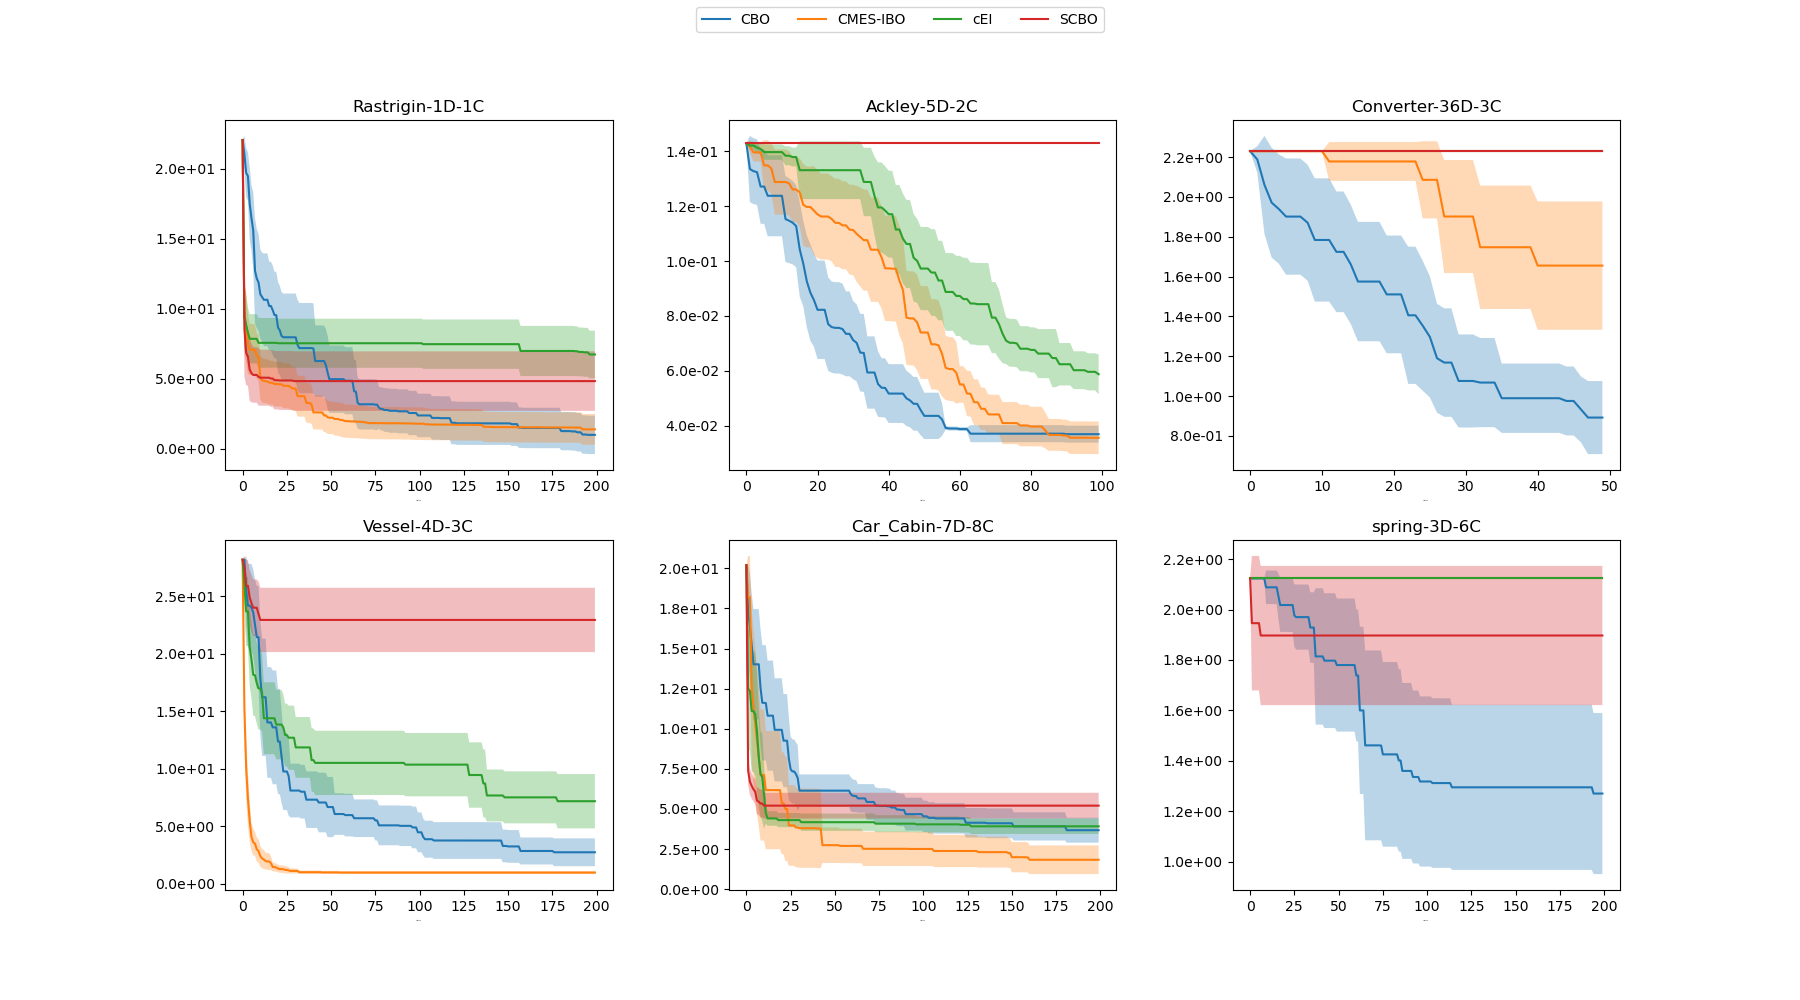
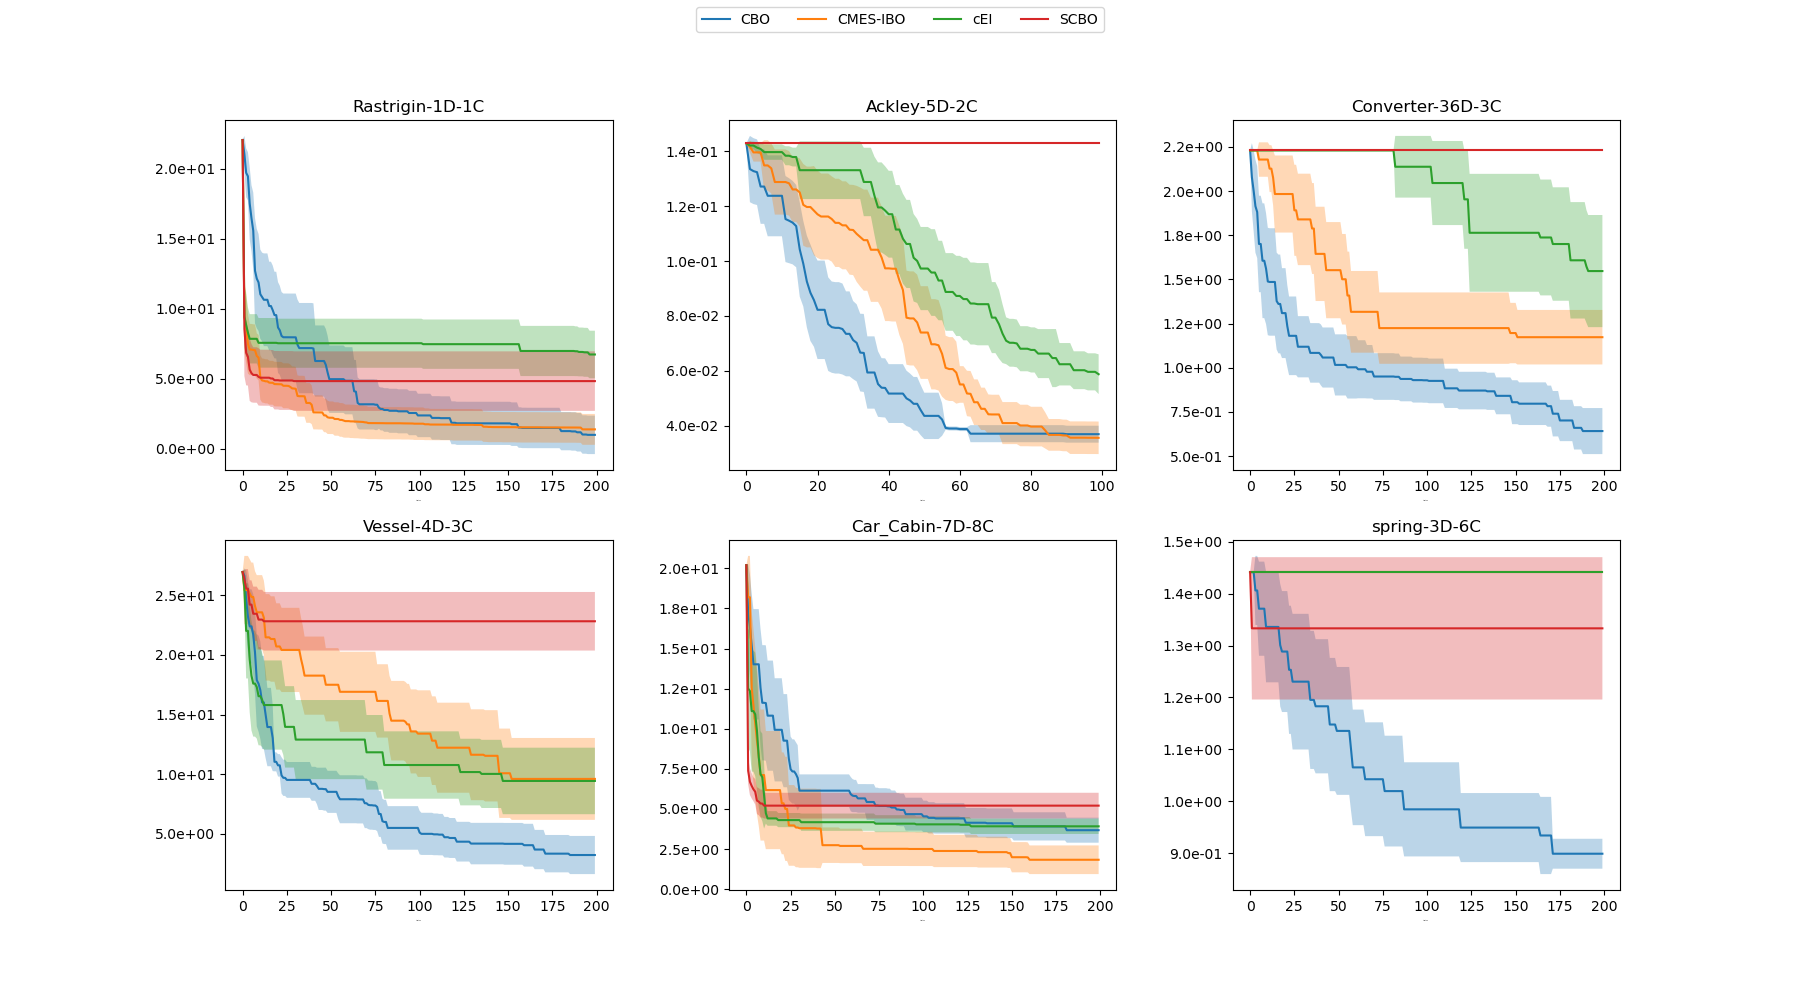
update with new setup

diff --git a/visualize_res.py b/visualize_res.py
@@ -56,12 +56,12 @@ ax.set_title("Ackley-5D-2C")
 
 # Wave-Energy_Converter-36D
 RES_num = {}
-RES_num["CBO"] = np.load(f"{CBO_DIR}OL-Regret-Figure_WATER_CONVERTER_32D_NEG_3C-InterP-B20.00-FB20.00-RI1--none-ci-R15-P2-T50_I1_L4-TI50-USexact.npy")
-RES_num["CMES-IBO"] = np.load(f"{BASELINE_DIR}cmes-ibo/OL-Regret-Figure_WATER_CONVERTER_32D_NEG_3C-InterP-RI1--none-cmes-ibo-R15-P2-T50_I1_L4-TI50-USexact.npy")
-RES_num["cEI"] = np.load(f"{BASELINE_DIR}qei/OL-Regret-Figure_WATER_CONVERTER_32D_NEG_3C-InterP-RI1--none-qei-R15-P2-T50_I1_L4-TI50-USexact.npy")
-RES_num["SCBO"] = np.load(f"{SCBO_DIR}OL-Regret-Figure_WATER_CONVERTER_32D_NEG_3C-InterP-RI1--none-scbo-R15-P2-T200_I1_L4-TI50-USexact.npy")
+RES_num["CBO"] = np.load(f"{CBO_DIR}OL-Regret-Figure_WATER_CONVERTER_32D_NEG_3C-InterP-B20.00-FB20.00-RI1--none-ci-R15-P2-T200_I1_L4-TI5-USexact.npy")
+RES_num["CMES-IBO"] = np.load(f"{BASELINE_DIR}cmes-ibo/OL-Regret-Figure_WATER_CONVERTER_32D_NEG_3C-InterP-RI1--none-cmes-ibo-R15-P2-T200_I1_L4-TI5-USexact.npy")
+RES_num["cEI"] = np.load(f"{BASELINE_DIR}qei/OL-Regret-Figure_WATER_CONVERTER_32D_NEG_3C-InterP-RI1--none-qei-R15-P2-T200_I1_L4-TI5-USexact.npy")
+RES_num["SCBO"] = np.load(f"{SCBO_DIR}OL-Regret-Figure_WATER_CONVERTER_32D_NEG_3C-InterP-RI1--none-scbo-R15-P2-T200_I1_L4-TI5-USexact.npy")
 ax = plt.subplot(2,3,3)
-visualize_regret(ax=ax, RES=RES_num, fontsize=fontsize, n_repeat=15, n_iter=50)
+visualize_regret(ax=ax, RES=RES_num, fontsize=fontsize, n_repeat=15, n_iter=200)
 ax.set_title("Converter-36D-3C")
 
 # vessel 
@@ -100,5 +100,5 @@ ax.set_title("spring-3D-6C")
 # plt.tight_layout()
 fig.legend(handles, labels, loc='upper center', ncol=len(labels))
 plt.subplots_adjust(left=None, bottom=None, right=None, top=None, wspace=0.3, hspace=None)
-plt.savefig("test.png")
+plt.savefig("simple_regret.png")
 # plt.show()
